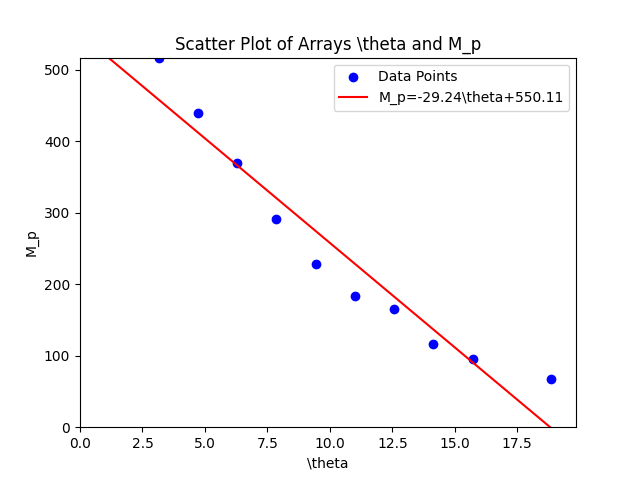
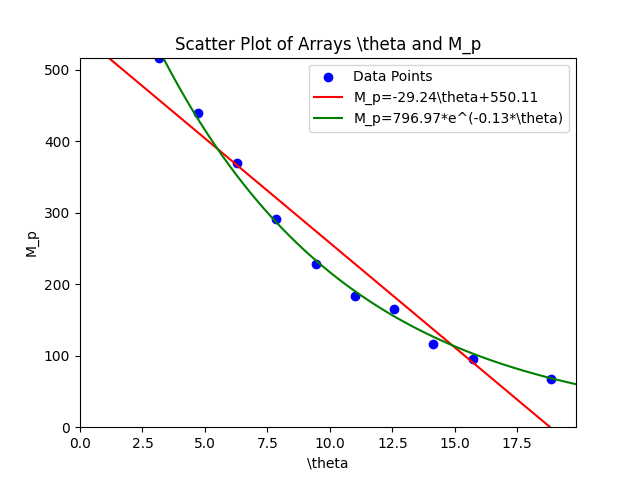
.

diff --git a/week_3/B.py b/week_3/B.py
@@ -30,6 +30,23 @@ fit_y = poly(fit_x)
 # 绘制拟合直线
 plt.plot(fit_x, fit_y, color='red', label=f"M_p={slope:.2f}\\theta+{intercept:.2f}")
 
+# 使用最小二乘法拟合指数函数
+def exponential_func(x, a, b):
+    return a * np.exp(-b * x)
+
+# 使用曲线拟合函数拟合指数函数
+popt, pcov = curve_fit(exponential_func, theta, p)
+
+# 获取拟合参数
+a, b = popt
+
+# 生成拟合曲线的 x 和 y 坐标
+fit_x = np.linspace(0, max(theta) + 1, 100)
+fit_y = exponential_func(fit_x, a, b)
+
+# 绘制拟合曲线
+plt.plot(fit_x, fit_y, color='green', label=f"M_p={a:.2f}*e^(-{b:.2f}*\\theta)")
+
 # 添加标签和标题
 plt.xlabel("\\theta")
 plt.ylabel("M_p")
